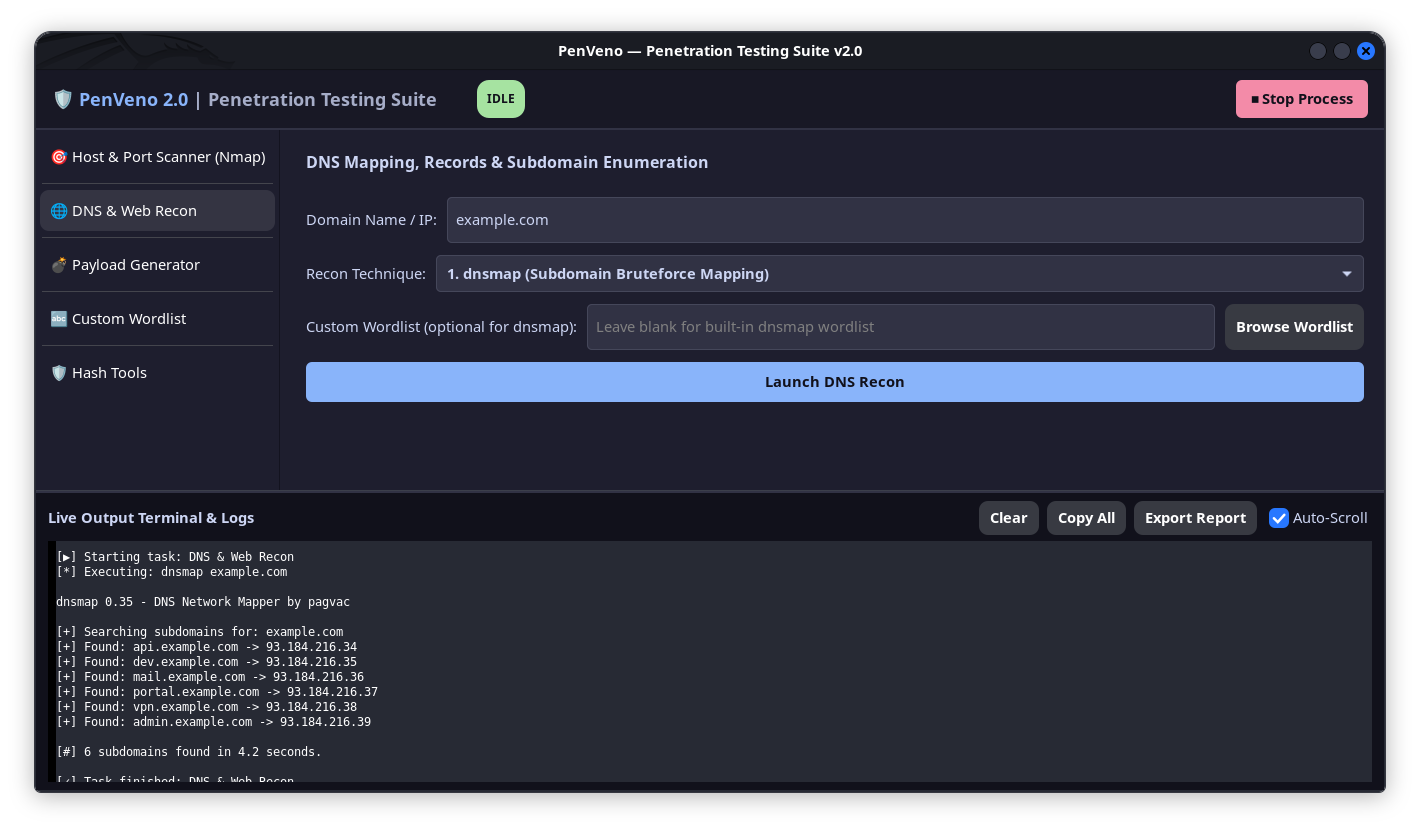
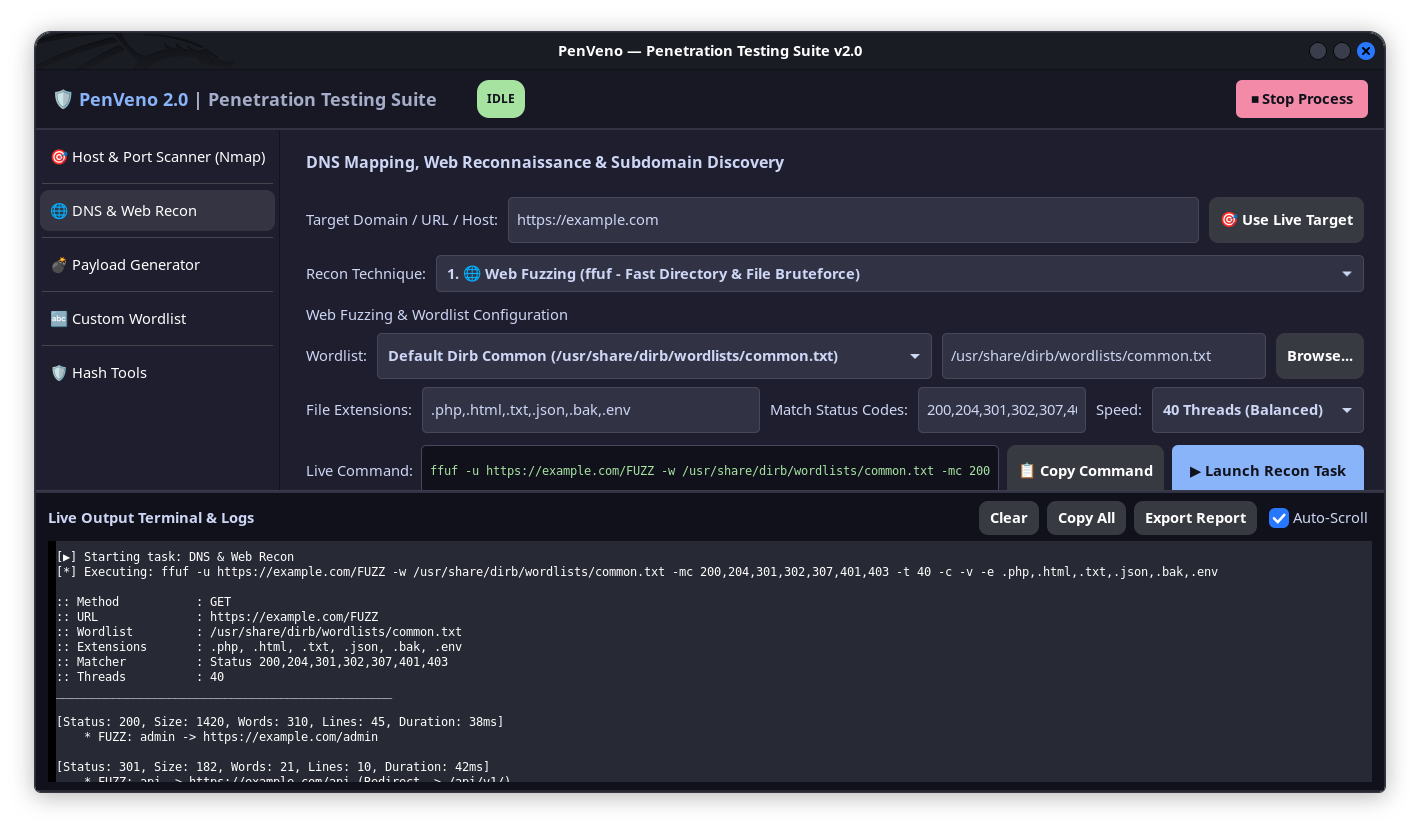
feat(recon): implement advanced web fuzzing, SSL SANs scraping, and DNS zone transfer

diff --git a/README.md b/README.md
@@ -12,7 +12,7 @@
 [![OpenSSL](https://img.shields.io/badge/Crypto-OpenSSL%203.x-red?style=for-the-badge&logo=openssl)](https://www.openssl.org/)
 
 <p align="center">
-  <b>PenVeno</b> bridges the gap between raw command-line tools and complex enterprise suites. It unifies essential security tools—<b>Nmap, Metasploit (msfvenom), Crunch, dnsmap, dig, whois, and OpenSSL</b>—into a fast, responsive, and secure desktop GUI built for Linux.
+  <b>PenVeno</b> bridges the gap between raw command-line tools and complex enterprise suites. It unifies essential security tools—<b>Nmap, ffuf, dirb, Metasploit (msfvenom), Crunch, dnsmap, dig, whois, and OpenSSL</b>—into a fast, responsive, and secure desktop GUI built for Linux.
 </p>
 
 </div>
@@ -105,11 +105,17 @@ Merges host discovery and port scanning into a comprehensive Nmap control center
 </p>
 
 ### 2. 🌐 DNS & Web Reconnaissance
-Enumerate subdomains and inspect DNS infrastructure:
-- **Subdomain Bruteforcing (`dnsmap`)**: Discovers hidden subdomains with built-in or custom wordlists.
-- **Comprehensive DNS Records (`dig ANY`)**: Queries all DNS record types (`A`, `AAAA`, `MX`, `TXT`, `NS`, `SOA`, `CNAME`).
-- **WHOIS Information**: Retrieves domain registrar, creation/expiration dates, and name servers.
-- **Reverse DNS (`host -a`)**: Resolves hostnames and IP PTR records.
+A complete web endpoint discovery, DNS enumeration, and technology fingerprinting suite:
+* **Web Directory & Endpoint Fuzzing (`ffuf`)**: Ultra-fast Go-based fuzzing with wordlist presets (`common.txt`, `big.txt`, `vulns/apache.txt`), customizable file extensions (`.php,.html,.txt,.json,.bak,.env`), status code matching (`200, 204, 301, 302, 307, 401, 403`), and concurrency control (20 to 80 threads).
+* **Classic Directory Scanner (`dirb`)**: Standard web content scanner for comprehensive path discovery.
+* **HTTP Security Headers & Banner Audit (`curl`)**: Fast analysis of HTTP response headers to identify missing security controls (`CSP`, `HSTS`, `X-Frame-Options`, `CORS`, `Set-Cookie` flags).
+* **Passive SSL/TLS SANs Scraping (`openssl`)**: Extracts Subject Alternative Names (SANs) from SSL/TLS certificates to passively map staging, internal, and API subdomains without generating DNS brute-force noise.
+* **DNS Zone Transfer Misconfiguration (`dig AXFR`)**: Automated query against all authoritative nameservers for full DNS namespace leaks.
+* **Subdomain Takeover & CNAME Probing (`dig CNAME`)**: Checks for dangling DNS pointers to orphan cloud instances.
+* **Active Subdomain Bruteforcing (`dnsmap`)**: Wordlist-driven subdomain brute-forcing.
+* **DNS Infrastructure Records (`dig ANY`)** & **WHOIS** & **Reverse DNS (`host -a`)**.
+* **1-Click Live Target Auto-Sync**: Copies live hosts identified in Nmap directly into the Web Recon module.
+* **Interactive Live Command Preview**: Shows the exact CLI command being executed with a 1-click **Copy Command** button.
 
 <p align="center">
   <img src="docs/screenshots/02_dns_recon.png" alt="DNS and Web Reconnaissance" width="900">
